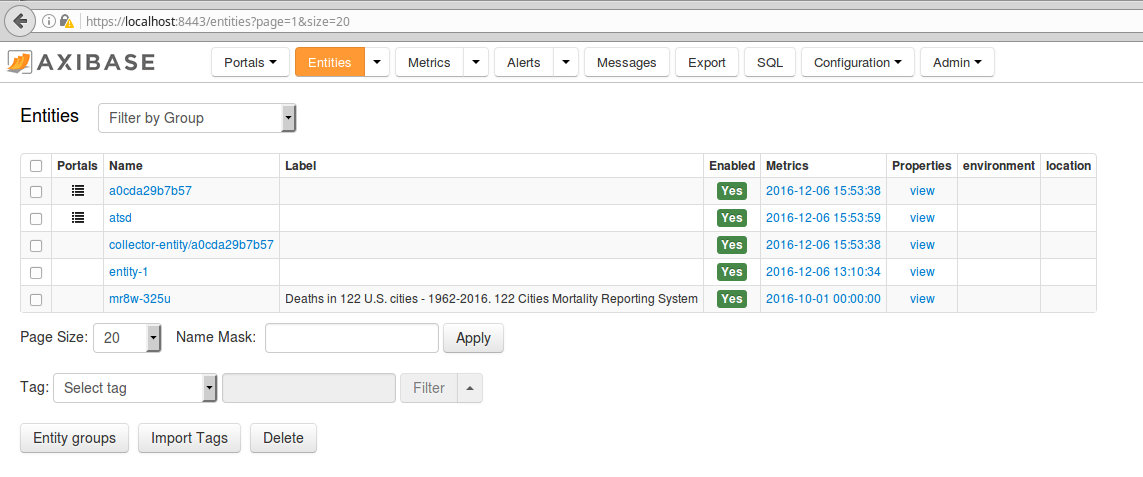
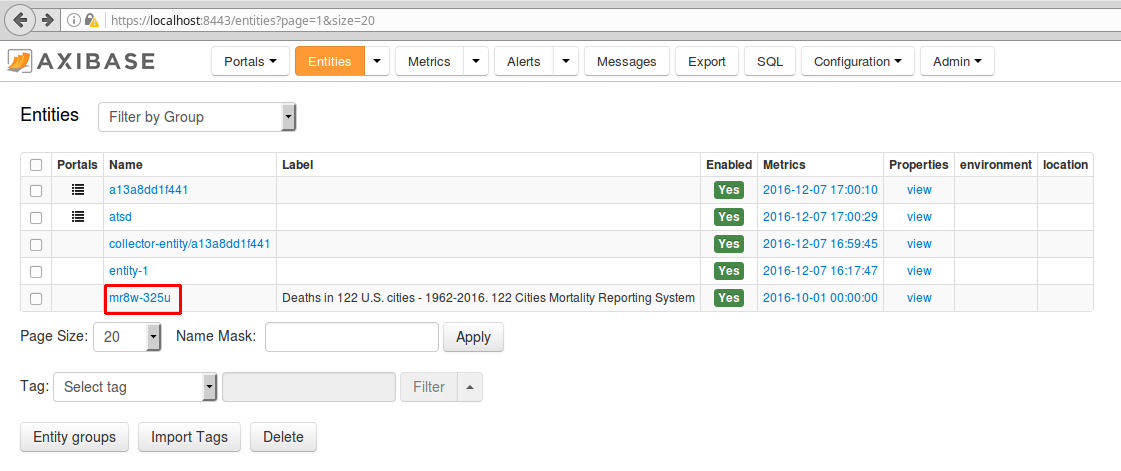
us_mortality

diff --git a/USMortality/README.md b/USMortality/README.md
@@ -216,11 +216,11 @@ Below is a step-by-step walk through for setting up local configurations of ATSD
    
    ![Figure 17](Images/Figure17.png)
    
-10. Now, navigate to back to the 'Entities' tab in ATSD.
+10. Now, navigate to the 'Entities' tab in ATSD. We can see that the job has created a new entity in ATSD, with the name `mr8w-325u`.  
    
    ![Figure 19](Images/Figure19.png)
    
-11. Next, navigate to the `Configuration -> Replacement Table`.
+11. Next, click on the `Configuration -> Replacement Table`.
    
    ![Figure 20](Images/Figure20.png)
    
@@ -236,7 +236,8 @@ Below is a step-by-step walk through for setting up local configurations of ATSD
    
    ![Figure 24](Images/Figure24.png)
    
-14. After the parser has been added, we will proceed to uploading our `us.population.csv` file. Click the 'Upload' button and then select the `us.population.csv` file.          
+14. After the parser has been added, we will proceed to uploading our `us.population.csv` file. Click again on the `Parsers:CSV` dropdown. Then, click on the `Upload` button and then select 
+    the `us.population.csv` file.          
    
    ![Figure 25](Images/Figure25.png)
    
